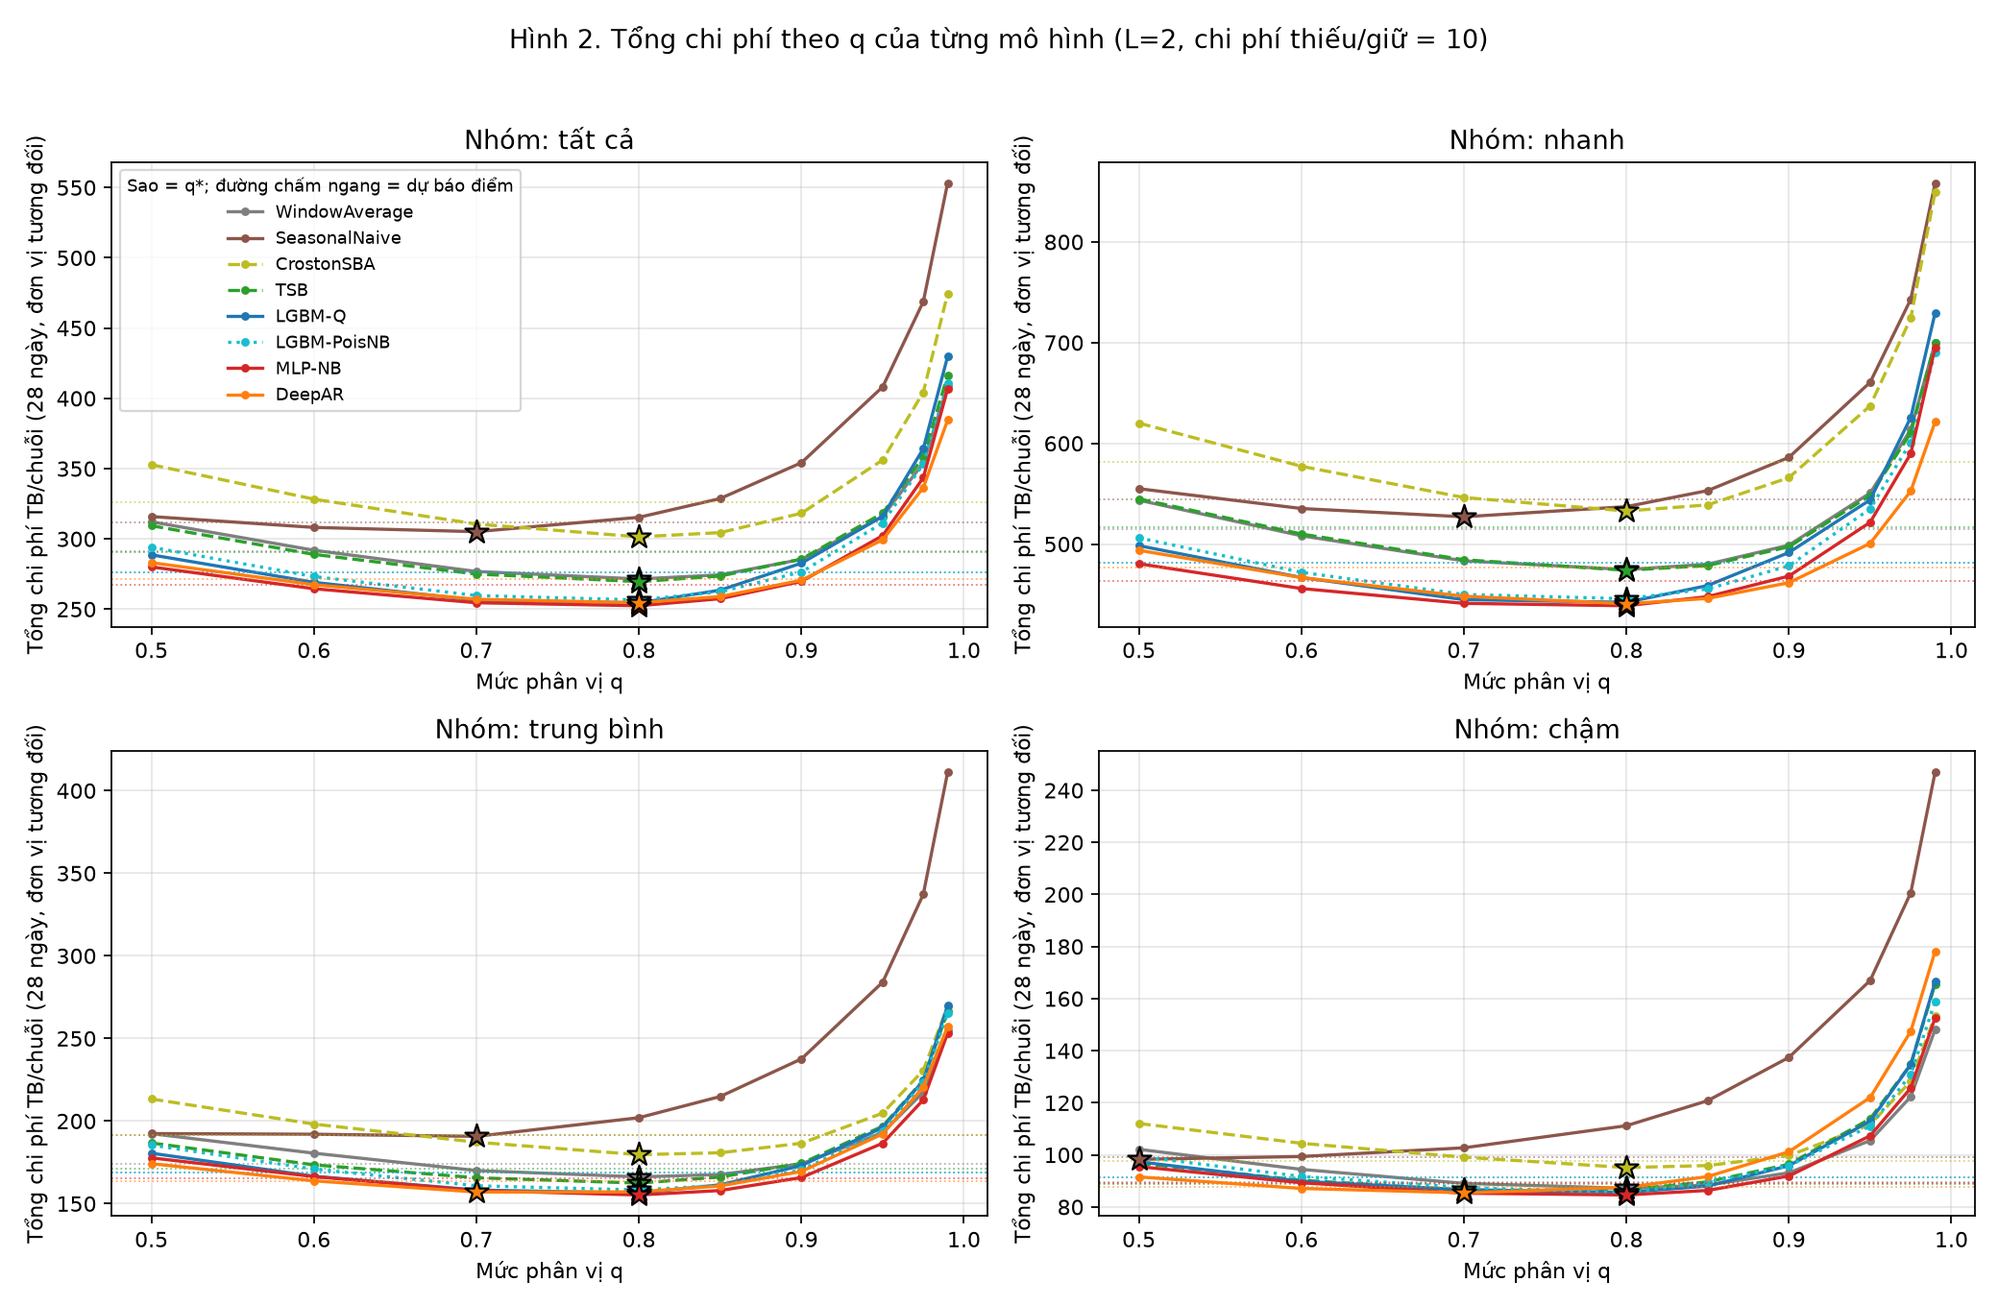
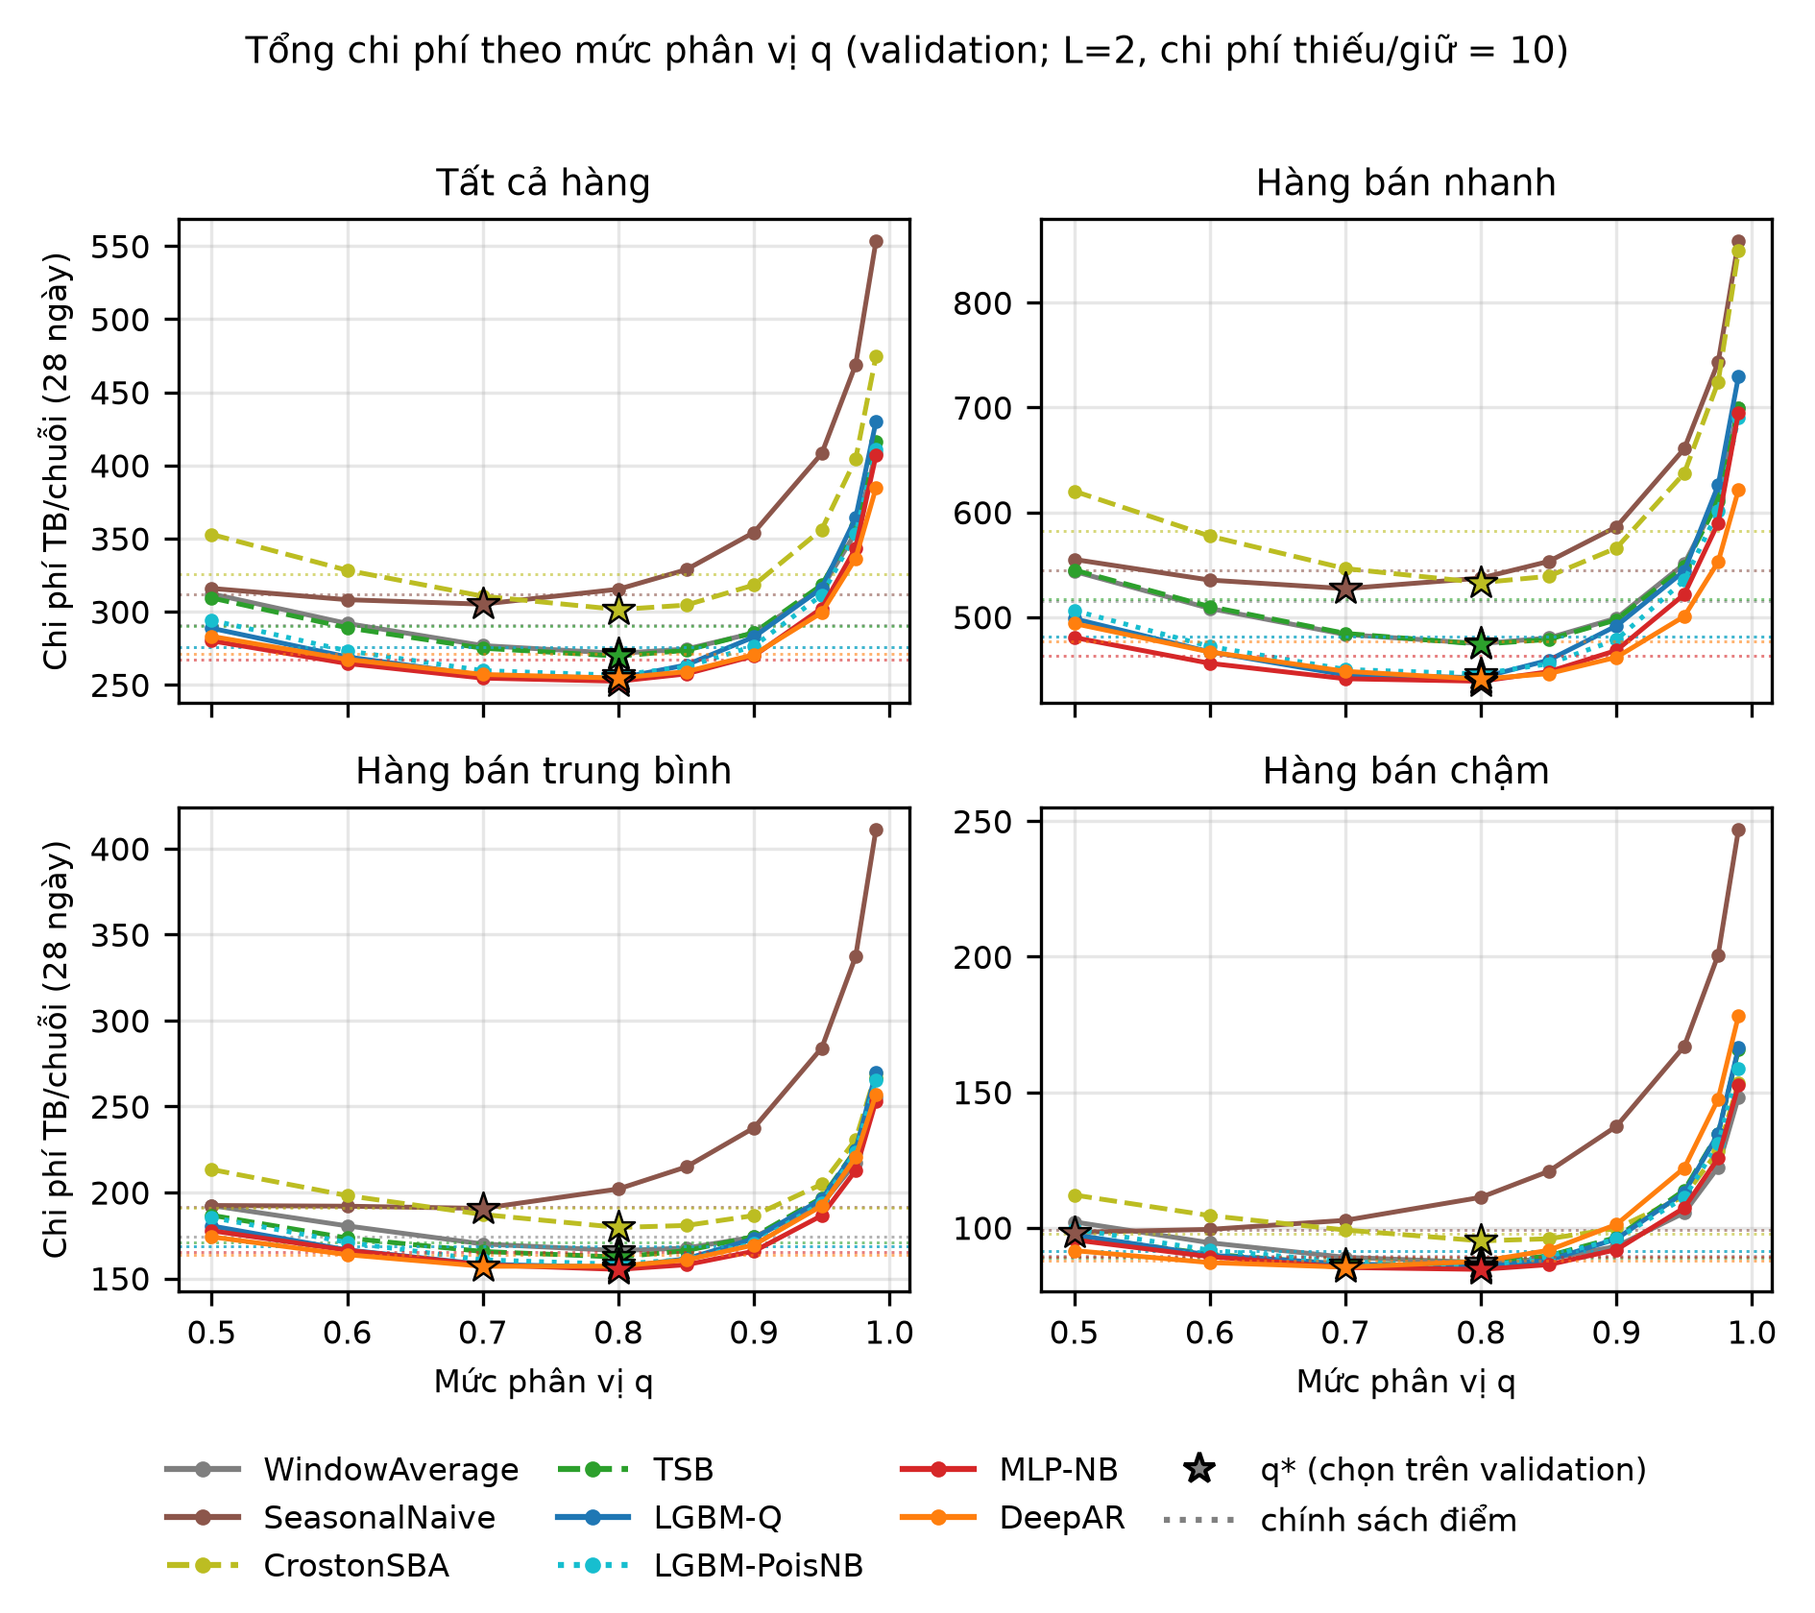
GD9: ve lai hinh cho bao cao Word

diff --git a/src/figures_word.py b/src/figures_word.py
@@ -1,0 +1,240 @@
+"""GĐ9: vẽ lại hình để đưa vào báo cáo Word (không đổi số liệu; chỉ đọc CSV/npz có sẵn).
+
+Quy cách: rộng 6.3 inch, dpi 300, chữ >= 8pt (số trong ô heatmap >= 7pt), bỏ tiền tố số hình trong tiêu đề, tiêu đề ghi tập dữ liệu/tham số.
+    python -m src.figures_word
+"""
+from __future__ import annotations
+
+import matplotlib
+
+matplotlib.use("Agg")
+import matplotlib.pyplot as plt
+import numpy as np
+import pandas as pd
+
+from src.policy_analysis import COLORS, STYLES, q_star_table
+from src.prob_models import CONFIG, QGRID
+from src.utils import ROOT
+
+FIG = ROOT / "results" / "figures"
+W = 6.3
+DPI = 300
+RATIO = float(CONFIG["stockout_cost_ratio"])
+L0 = 2
+ALL = ["WindowAverage", "SeasonalNaive", "CrostonSBA", "TSB", "LGBM-Q", "LGBM-PoisNB", "MLP-NB", "DeepAR"]
+SPEED_VI = {"fast": "nhanh", "medium": "trung bình", "slow": "chậm", "overall": "tất cả"}
+plt.rcParams.update({"font.size": 8, "axes.titlesize": 9, "axes.labelsize": 8, "xtick.labelsize": 8, "ytick.labelsize": 8, "legend.fontsize": 8,
+                     "figure.titlesize": 9, "axes.grid": True, "grid.alpha": 0.3})
+
+
+def _sim(split: str) -> pd.DataFrame:
+    """Mô phỏng lưới chính, 8 mô hình (7 mô hình cũ + DeepAR)."""
+    return pd.concat([pd.read_csv(ROOT / "results" / f"inventory_sim_{split}.csv"), pd.read_csv(ROOT / "results" / f"inventory_sim_deepar_{split}.csv")], ignore_index=True)
+
+
+def _save(fig, name: str) -> str:
+    fig.savefig(FIG / name, dpi=DPI)
+    plt.close(fig)
+    return name
+
+
+def _legend_below(fig, handles, labels, ncol=4, y=-0.005):
+    fig.legend(handles, labels, loc="lower center", ncol=ncol, frameon=False, bbox_to_anchor=(0.5, y), handlelength=2.2, columnspacing=1.2)
+
+
+def _grp(sim, L, gt, g):
+    return sim[(sim.L == L) & (sim.group_type == gt) & (sim.group == g) & (sim.cost_ratio == RATIO)]
+
+
+def cost_by_q(split: str, sim_val: pd.DataFrame, sim: pd.DataFrame) -> str:
+    """Tổng chi phí theo q (L=2, tỷ lệ 10), sao tại q* chọn trên validation (cho từng nhóm); đường chấm = chính sách điểm."""
+    fig, axes = plt.subplots(2, 2, figsize=(W, 5.6), sharex=True)
+    for ax, (gt, g) in zip(axes.ravel(), [("overall", "overall"), ("speed", "fast"), ("speed", "medium"), ("speed", "slow")]):
+        for m in ALL:
+            v = _grp(sim_val[sim_val.model == m], L0, gt, g)
+            vq = v[v.policy == "quantile"].sort_values("q")
+            qstar = float(vq.loc[vq.total_cost.idxmin(), "q"])
+            s = _grp(sim[sim.model == m], L0, gt, g)
+            q = s[s.policy == "quantile"].sort_values("q")
+            ax.plot(q.q, q.total_cost, STYLES[m], color=COLORS[m], marker="o", ms=2.5, lw=1.2)
+            ax.scatter([qstar], [float(q[np.isclose(q.q, qstar)].total_cost.iloc[0])], marker="*", s=70, color=COLORS[m], edgecolor="black", linewidths=0.6, zorder=5)
+            ax.axhline(float(s[s.policy == "point"].total_cost.iloc[0]), color=COLORS[m], ls=":", lw=0.7, alpha=0.6)
+        ax.set_title(f"Hàng bán {SPEED_VI[g]}" if gt == "speed" else "Tất cả hàng")
+    for ax in axes[1]:
+        ax.set_xlabel("Mức phân vị q")
+    for ax in axes[:, 0]:
+        ax.set_ylabel("Chi phí TB/chuỗi (28 ngày)")
+    handles = [plt.Line2D([], [], color=COLORS[m], ls=STYLES[m], marker="o", ms=3) for m in ALL] + [
+        plt.Line2D([], [], color="gray", marker="*", ls="", ms=8, markeredgecolor="black"), plt.Line2D([], [], color="gray", ls=":")]
+    labels = ALL + ["q* (chọn trên validation)", "chính sách điểm"]
+    ttl = "validation" if split == "val" else "test; q* chọn trên validation"
+    fig.suptitle(f"Tổng chi phí theo mức phân vị q ({ttl}; L={L0}, chi phí thiếu/giữ = {RATIO:g})")
+    fig.tight_layout(rect=[0, 0.11, 1, 0.97])
+    _legend_below(fig, handles, labels, ncol=4, y=0.0)
+    return _save(fig, "policy_total_cost_by_q.png" if split == "val" else "policy_total_cost_by_q_test.png")
+
+
+def tradeoff(split: str, sim_val: pd.DataFrame, sim: pd.DataFrame) -> str:
+    """Đánh đổi fill rate – tồn kho TB theo q; ô vuông = chính sách điểm; test dùng cùng q (đường q từ 0.5 đến 0.99)."""
+    fig, axes = plt.subplots(2, 2, figsize=(W, 5.6))
+    for ax, sp in zip(axes.ravel()[:3], ["fast", "medium", "slow"]):
+        for m in ALL:
+            s = _grp(sim[sim.model == m], L0, "speed", sp)
+            q = s[s.policy == "quantile"].sort_values("q")
+            ax.plot(q.avg_inventory, q.fill_rate, STYLES[m], color=COLORS[m], marker="o", ms=2.5, lw=1.2)
+            p = s[s.policy == "point"].iloc[0]
+            ax.scatter([p.avg_inventory], [p.fill_rate], marker="s", s=28, color=COLORS[m], edgecolor="black", linewidths=0.6, zorder=5)
+        ax.set_title(f"Hàng bán {SPEED_VI[sp]}")
+        ax.set_xlabel("Tồn kho cuối ngày TB (đơn vị/chuỗi)")
+        ax.set_ylabel("Fill rate")
+    axes.ravel()[3].axis("off")
+    handles = [plt.Line2D([], [], color=COLORS[m], ls=STYLES[m], marker="o", ms=3) for m in ALL] + [plt.Line2D([], [], color="gray", marker="s", ls="", ms=5, markeredgecolor="black")]
+    labels = ALL + ["chính sách điểm"]
+    axes.ravel()[3].legend(handles, labels, loc="center", frameon=False, title="Đường: q từ 0.5 đến 0.99", title_fontsize=8)
+    ttl = "validation" if split == "val" else "test"
+    fig.suptitle(f"Đánh đổi fill rate – tồn kho theo mức phân vị q ({ttl}; L={L0}, chi phí thiếu/giữ = {RATIO:g})")
+    fig.tight_layout(rect=[0, 0, 1, 0.96])
+    return _save(fig, "policy_tradeoff_fill_vs_inventory.png" if split == "val" else "policy_tradeoff_fill_vs_inventory_test.png")
+
+
+def _row_label(g: str) -> str:
+    dt, sp = g.rsplit("_", 1)
+    return f"{dt} – {SPEED_VI[sp]}"
+
+
+def qstar_heatmaps(sim_val: pd.DataFrame) -> list[str]:
+    """q* (chọn trên validation, tối thiểu hóa tổng chi phí) theo tỷ lệ chi phí × nhóm hàng; 8 mô hình chia 2 hình, mỗi hình 4 mô hình (L=2)."""
+    qs = q_star_table(sim_val)
+    ratios = [float(r) for r in CONFIG["cost_ratios"]]
+    groups = sorted(qs[qs.group_type == "demand_type_x_speed"].group.unique())
+    names = []
+    for part, models, fname in [(1, ALL[:4], "policy_qstar_heatmap.png"), (2, ALL[4:], "policy_qstar_heatmap_b.png")]:
+        fig, axes = plt.subplots(2, 2, figsize=(W, 6.6), sharey=True)
+        im = None
+        for ax, m in zip(axes.ravel(), models):
+            s = qs[(qs.model == m) & (qs.L == L0) & (qs.group_type == "demand_type_x_speed")]
+            mat = s.pivot(index="group", columns="cost_ratio", values="q_star").reindex(index=groups, columns=ratios)
+            im = ax.imshow(mat.values, aspect="auto", cmap="viridis", vmin=min(QGRID), vmax=max(QGRID))
+            ax.set_xticks(range(len(ratios)), [f"{r:g}" for r in ratios])
+            ax.set_yticks(range(len(groups)), [_row_label(g) for g in groups])
+            ax.grid(False)
+            for i in range(len(groups)):
+                for j in range(len(ratios)):
+                    v = mat.values[i, j]
+                    ax.text(j, i, f"{v:.2f}", ha="center", va="center", color="white" if v < 0.85 else "black", fontsize=7)
+            ax.set_title(m)
+            ax.set_xlabel("Chi phí thiếu / chi phí giữ")
+        fig.suptitle(f"q* chọn trên validation theo tỷ lệ chi phí và nhóm hàng (L={L0}; hình {part}/2)")
+        fig.tight_layout(rect=[0, 0.12, 1, 0.97])
+        cax = fig.add_axes([0.25, 0.075, 0.5, 0.016])
+        cb = fig.colorbar(im, cax=cax, orientation="horizontal")
+        cb.set_label("q* (mức phân vị tối ưu)", fontsize=8)
+        names.append(_save(fig, fname))
+    return names
+
+
+def forecast_error(split: str) -> str:
+    """Sai số dự báo cửa sổ H=3 theo nhóm: pinball_avg và WAPE theo tốc độ bán và demand_type, 8 mô hình."""
+    ev = pd.concat([pd.read_csv(ROOT / "results" / f"forecast_eval_{split}_all.csv"), pd.read_csv(ROOT / "results" / f"forecast_eval_deepar_{split}_all.csv")], ignore_index=True)
+    fig, axes = plt.subplots(2, 2, figsize=(W, 5.8))
+    specs = [("pinball_avg", "speed", "Pinball TB (mọi q)"), ("pinball_avg", "demand_type", "Pinball TB (mọi q)"), ("wape", "speed", "WAPE"), ("wape", "demand_type", "WAPE")]
+    for ax, (metric, gt, ylab) in zip(axes.ravel(), specs):
+        t = ev[(ev.H == 3) & (ev.group_type == gt) & (ev.metric == metric)].pivot(index="group", columns="model", values="value")[ALL]
+        if gt == "speed":
+            t = t.loc[["fast", "medium", "slow"]]
+            t.index = [SPEED_VI[i] for i in t.index]
+        t.plot.bar(ax=ax, width=0.85, color=[COLORS[m] for m in ALL], legend=False)
+        ax.set_xlabel("Nhóm tốc độ bán" if gt == "speed" else "Loại nhu cầu (demand_type)")
+        ax.set_ylabel(ylab)
+        ax.tick_params(axis="x", rotation=0)
+        ax.grid(axis="y", alpha=0.3)
+        ax.grid(axis="x", visible=False)
+    handles = [plt.Rectangle((0, 0), 1, 1, color=COLORS[m]) for m in ALL]
+    ttl = "validation" if split == "val" else "test"
+    fig.suptitle(f"Sai số dự báo cửa sổ H=3 theo nhóm hàng ({ttl})")
+    fig.tight_layout(rect=[0, 0.1, 1, 0.97])
+    _legend_below(fig, handles, ALL, ncol=4, y=0.0)
+    return _save(fig, "policy_forecast_error_by_group.png" if split == "val" else "policy_forecast_error_by_group_test.png")
+
+
+def architecture() -> str:
+    """Sơ đồ DeepAR-style: encoder GRU → bước dự báo → đầu NB → lấy mẫu ŷ (mũi tên đỏ quay lại bước k+1) → tổng cửa sổ → phân vị → order-up-to."""
+    fig, ax = plt.subplots(figsize=(W, 6.2))
+    ax.axis("off"); ax.grid(False)
+    ax.set_xlim(0, 11.1); ax.set_ylim(0, 10.8)
+
+    def box(x, y, w, h, txt, c):
+        ax.add_patch(plt.Rectangle((x, y), w, h, fc=c, ec="black", lw=0.9))
+        ax.text(x + w / 2, y + h / 2, txt, ha="center", va="center", fontsize=8)
+
+    def arr(x1, y1, x2, y2, color="black", ls="-"):
+        ax.annotate("", xy=(x2, y2), xytext=(x1, y1), arrowprops=dict(arrowstyle="-|>", lw=1.3, color=color, ls=ls))
+
+    box(0.1, 8.3, 3.2, 2.3, "Đầu vào mỗi ngày d\n$y_{d-1}/s$, $s=1+\\overline{y}_{ctx}$\nembedding chuỗi (8)\ncovariates đã biết:\nthứ, tháng, ngày, SNAP,\nsự kiện, giá tương đối", "#dbeafe")
+    box(3.8, 8.3, 2.6, 2.3, "Encoder GRU\ncontext $C$ ngày\n(teacher forcing)\n→ trạng thái $h_t$", "#fde68a")
+    box(6.9, 8.3, 2.6, 2.3, "Bước dự báo\n$k=1..H$: GRU nhận\n$\\hat y_{t+k-1}$ (k=1: $y_t$)\n+ covariates ngày $t+k$", "#fde68a")
+    arr(3.3, 9.45, 3.8, 9.45); arr(6.4, 9.45, 6.9, 9.45)
+    box(6.9, 5.4, 2.6, 2.3, "Đầu Negative\nBinomial\n$\\mu=s\\cdot softplus(\\cdot)$\n$\\alpha=(softplus(\\cdot)+\\epsilon)\\kappa$", "#bbf7d0")
+    arr(8.2, 8.3, 8.2, 7.7)
+    box(6.9, 2.5, 2.6, 2.3, "Lấy mẫu $\\hat y_{t+k}$\n(n=500 quỹ đạo,\nGamma–Poisson)", "#bbf7d0")
+    arr(8.2, 5.4, 8.2, 4.8)
+    # vòng lặp: ŷ_{t+k} → bước k+1 (đi theo mép phải, ngoài các khối)
+    ax.plot([9.5, 10.1, 10.1], [3.65, 3.65, 9.45], color="#b91c1c", lw=1.3, ls="--")
+    arr(10.1, 9.45, 9.5, 9.45, color="#b91c1c", ls="--")
+    ax.text(10.7, 6.5, "$\\hat y_{t+k}$ làm đầu vào\nbước $k+1$", rotation=90, fontsize=8, ha="center", va="center", color="#b91c1c")
+    box(3.8, 2.5, 2.6, 2.3, "Tổng cửa sổ\n$D_H=\\sum_{k=1}^{H}\\hat y_{t+k}$\n(mỗi quỹ đạo)", "#fecaca")
+    arr(6.9, 3.65, 6.4, 3.65)
+    box(0.1, 2.5, 3.2, 2.3, "Phân vị kinh nghiệm\n$\\hat Q_q(D_H)$ (số nguyên)\nq = 0.3 … 0.99", "#fecaca")
+    arr(3.8, 3.65, 3.3, 3.65)
+    box(0.1, 0.1, 3.2, 1.8, "Order-up-to\n$S=\\hat Q_q(D_H)$; đặt $\\max(0,S-IP)$,\nhàng về sau $L$ ngày", "#e9d5ff")
+    arr(1.7, 2.5, 1.7, 1.9)
+    ax.set_title("DeepAR-style: từ chuỗi doanh số tới mức đặt hàng order-up-to")
+    fig.tight_layout()
+    return _save(fig, "deepar_architecture.png")
+
+
+def nll_curves() -> list[str]:
+    """Đường NLL theo epoch: DeepAR (huấn luyện và holdout, 3 seed) và MLP-NB (holdout; 30 epoch cho 3 seed và 80 epoch cho seed 42)."""
+    names = []
+    cv = pd.read_csv(ROOT / "results" / "deepar_nll_curves.csv")
+    fig, axes = plt.subplots(1, 2, figsize=(W, 3.1))
+    pal = {42: "#ff7f0e", 43: "#a85200", 44: "#ffc078"}  # tông cam của DeepAR
+    for sd, g in cv.groupby("seed"):
+        axes[0].plot(g.epoch, g.train_nll, marker="o", ms=2.5, color=pal[int(sd)], label=f"seed {sd}")
+        axes[1].plot(g.epoch, g.holdout_nll, marker="o", ms=2.5, color=pal[int(sd)], label=f"seed {sd}")
+        b = g.loc[g.holdout_nll.idxmin()]
+        axes[1].scatter([b.epoch], [b.holdout_nll], marker="*", s=70, color=pal[int(sd)], edgecolor="black", linewidths=0.6, zorder=5)
+    axes[0].set(title="NLL huấn luyện", xlabel="Epoch", ylabel="NLL TB/bước")
+    axes[1].set(title="NLL holdout nội bộ (sao = epoch chọn)", xlabel="Epoch", ylabel="NLL TB/bước")
+    for a in axes:
+        a.legend(frameon=False)
+    fig.suptitle("DeepAR: NLL theo epoch (3 seed; huấn luyện trên train)")
+    fig.tight_layout(rect=[0, 0, 1, 0.94])
+    names.append(_save(fig, "deepar_nll_curves.png"))
+    mc = pd.read_csv(ROOT / "results" / "mlp_nll_curves.csv")
+    fig, axes = plt.subplots(1, 2, figsize=(W, 3.1))
+    for ax, H in zip(axes, (3, 4)):
+        pal = {42: "#d62728", 43: "#7f1d1d", 44: "#f19b9b"}  # tông đỏ của MLP-NB
+        for (seed, mx), g in mc[mc.H == H].groupby(["seed", "max_epochs"]):
+            long = mx > 30
+            col = "black" if long else pal[int(seed)]
+            ax.plot(g.epoch, g.holdout_nll, "--" if long else "-", lw=1.4 if long else 1.0, marker=None if long else "o", ms=2, color=col, label=f"seed {seed}, tối đa {mx} epoch")
+            ax.scatter([g.epoch.iloc[int(g.holdout_nll.argmin())]], [g.holdout_nll.min()], marker="*", s=70, color=col, edgecolor="black", linewidths=0.6, zorder=5)
+        ax.set(title=f"H={H}", xlabel="Epoch", ylabel="NLL holdout nội bộ")
+        ax.legend(frameon=False, fontsize=7)
+    fig.suptitle("MLP-NB: NLL holdout theo epoch (sao = epoch tốt nhất; train)")
+    fig.tight_layout(rect=[0, 0, 1, 0.94])
+    names.append(_save(fig, "mlp_nll_curves.png"))
+    return names
+
+
+def main() -> None:
+    sv, st = _sim("val"), _sim("test")
+    out = [cost_by_q("val", sv, sv), cost_by_q("test", sv, st), tradeoff("val", sv, sv), tradeoff("test", sv, st)]
+    out += qstar_heatmaps(sv)
+    out += [forecast_error("val"), forecast_error("test"), architecture()] + nll_curves()
+    print("\n".join(out))
+
+
+if __name__ == "__main__":
+    main()

diff --git a/README.md b/README.md
@@ -37,6 +37,8 @@ python -m src.deepar --stage freeze                   # đóng băng epoch từn
 for S in 42 43 44; do python -m src.deepar --stage seed_test --seed $S --threads 4 & done; wait   # test: một lần
 python -m src.deepar --stage collect_test
 python -m src.deepar_analysis --what sim ; python -m src.deepar_analysis --what tables
+# --- GĐ9: vẽ lại hình cho báo cáo Word (6.3 inch, 300 dpi; không đổi số liệu). Chạy SAU policy_analysis/deepar_analysis vì các bước đó cũng ghi cùng tên file hình ---
+python -m src.figures_word
 python -m pytest -v                     # 64 test (cần đã chạy các bước trên vì có test đọc file kết quả)
 
 # Notebook (Restart & Run All)
@@ -72,6 +74,7 @@ Seed (42) và mọi tham số (lưới phân vị, lead time, chi phí, lưới 
 ## Lưu ý
 - Chi phí mô phỏng là **tương đối** (giữ 1.0/đơn vị-ngày; thiếu = cost_ratio × 1.0), không phải chi phí thực.
 - MLP-NB là MLP có đầu ra Negative Binomial, không phải DeepAR/N-HiTS/TFT. WRMSSE không được tính (lý do trong báo cáo 02).
+- Lưu ý GĐ9: hình báo cáo Word do `src/figures_word.py` vẽ (không tiền tố số hình, có bản `_test`, heatmap q* chia 2 hình `policy_qstar_heatmap.png`/`_b.png`); không đổi CSV/npz/json.
 - Lưu ý GĐ8: thêm DeepAR-style (`src/deepar.py`, `src/deepar_analysis.py`, siêu tham số `results/hparams_deepar.json`); mọi số liệu của 7 mô hình cũ KHÔNG đổi (sha256 các file kết quả cũ ở `results/gd8_baseline_hashes.txt`, tag git `pre-gd8`). DeepAR không hơn MLP-NB/LightGBM (xem `08_deepar.md`).
 - Lưu ý GĐ7: mô phỏng làm tròn phân vị LGBM-Q về số nguyên gần nhất (NB giữ nguyên; chính sách điểm vẫn ceil); lưới kappa {0.25…2.0}; chính sách theo nhóm tốc độ không tốt hơn chính sách chung ở L=3 (xem `07_sua_loi.md`). Số liệu trước GĐ7: `archive/pre_gd7/`.
 - Lưu ý GĐ6: kết luận "phân vị tốt hơn điểm" chỉ đúng so với điểm THUẦN; so với điểm có hệ số an toàn chỉ còn hơn ở tỷ lệ chi phí cao; biến ngoại sinh giá/SNAP/sự kiện đóng góp ≤ 1% pinball (xem `06_bo_sung.md`).
